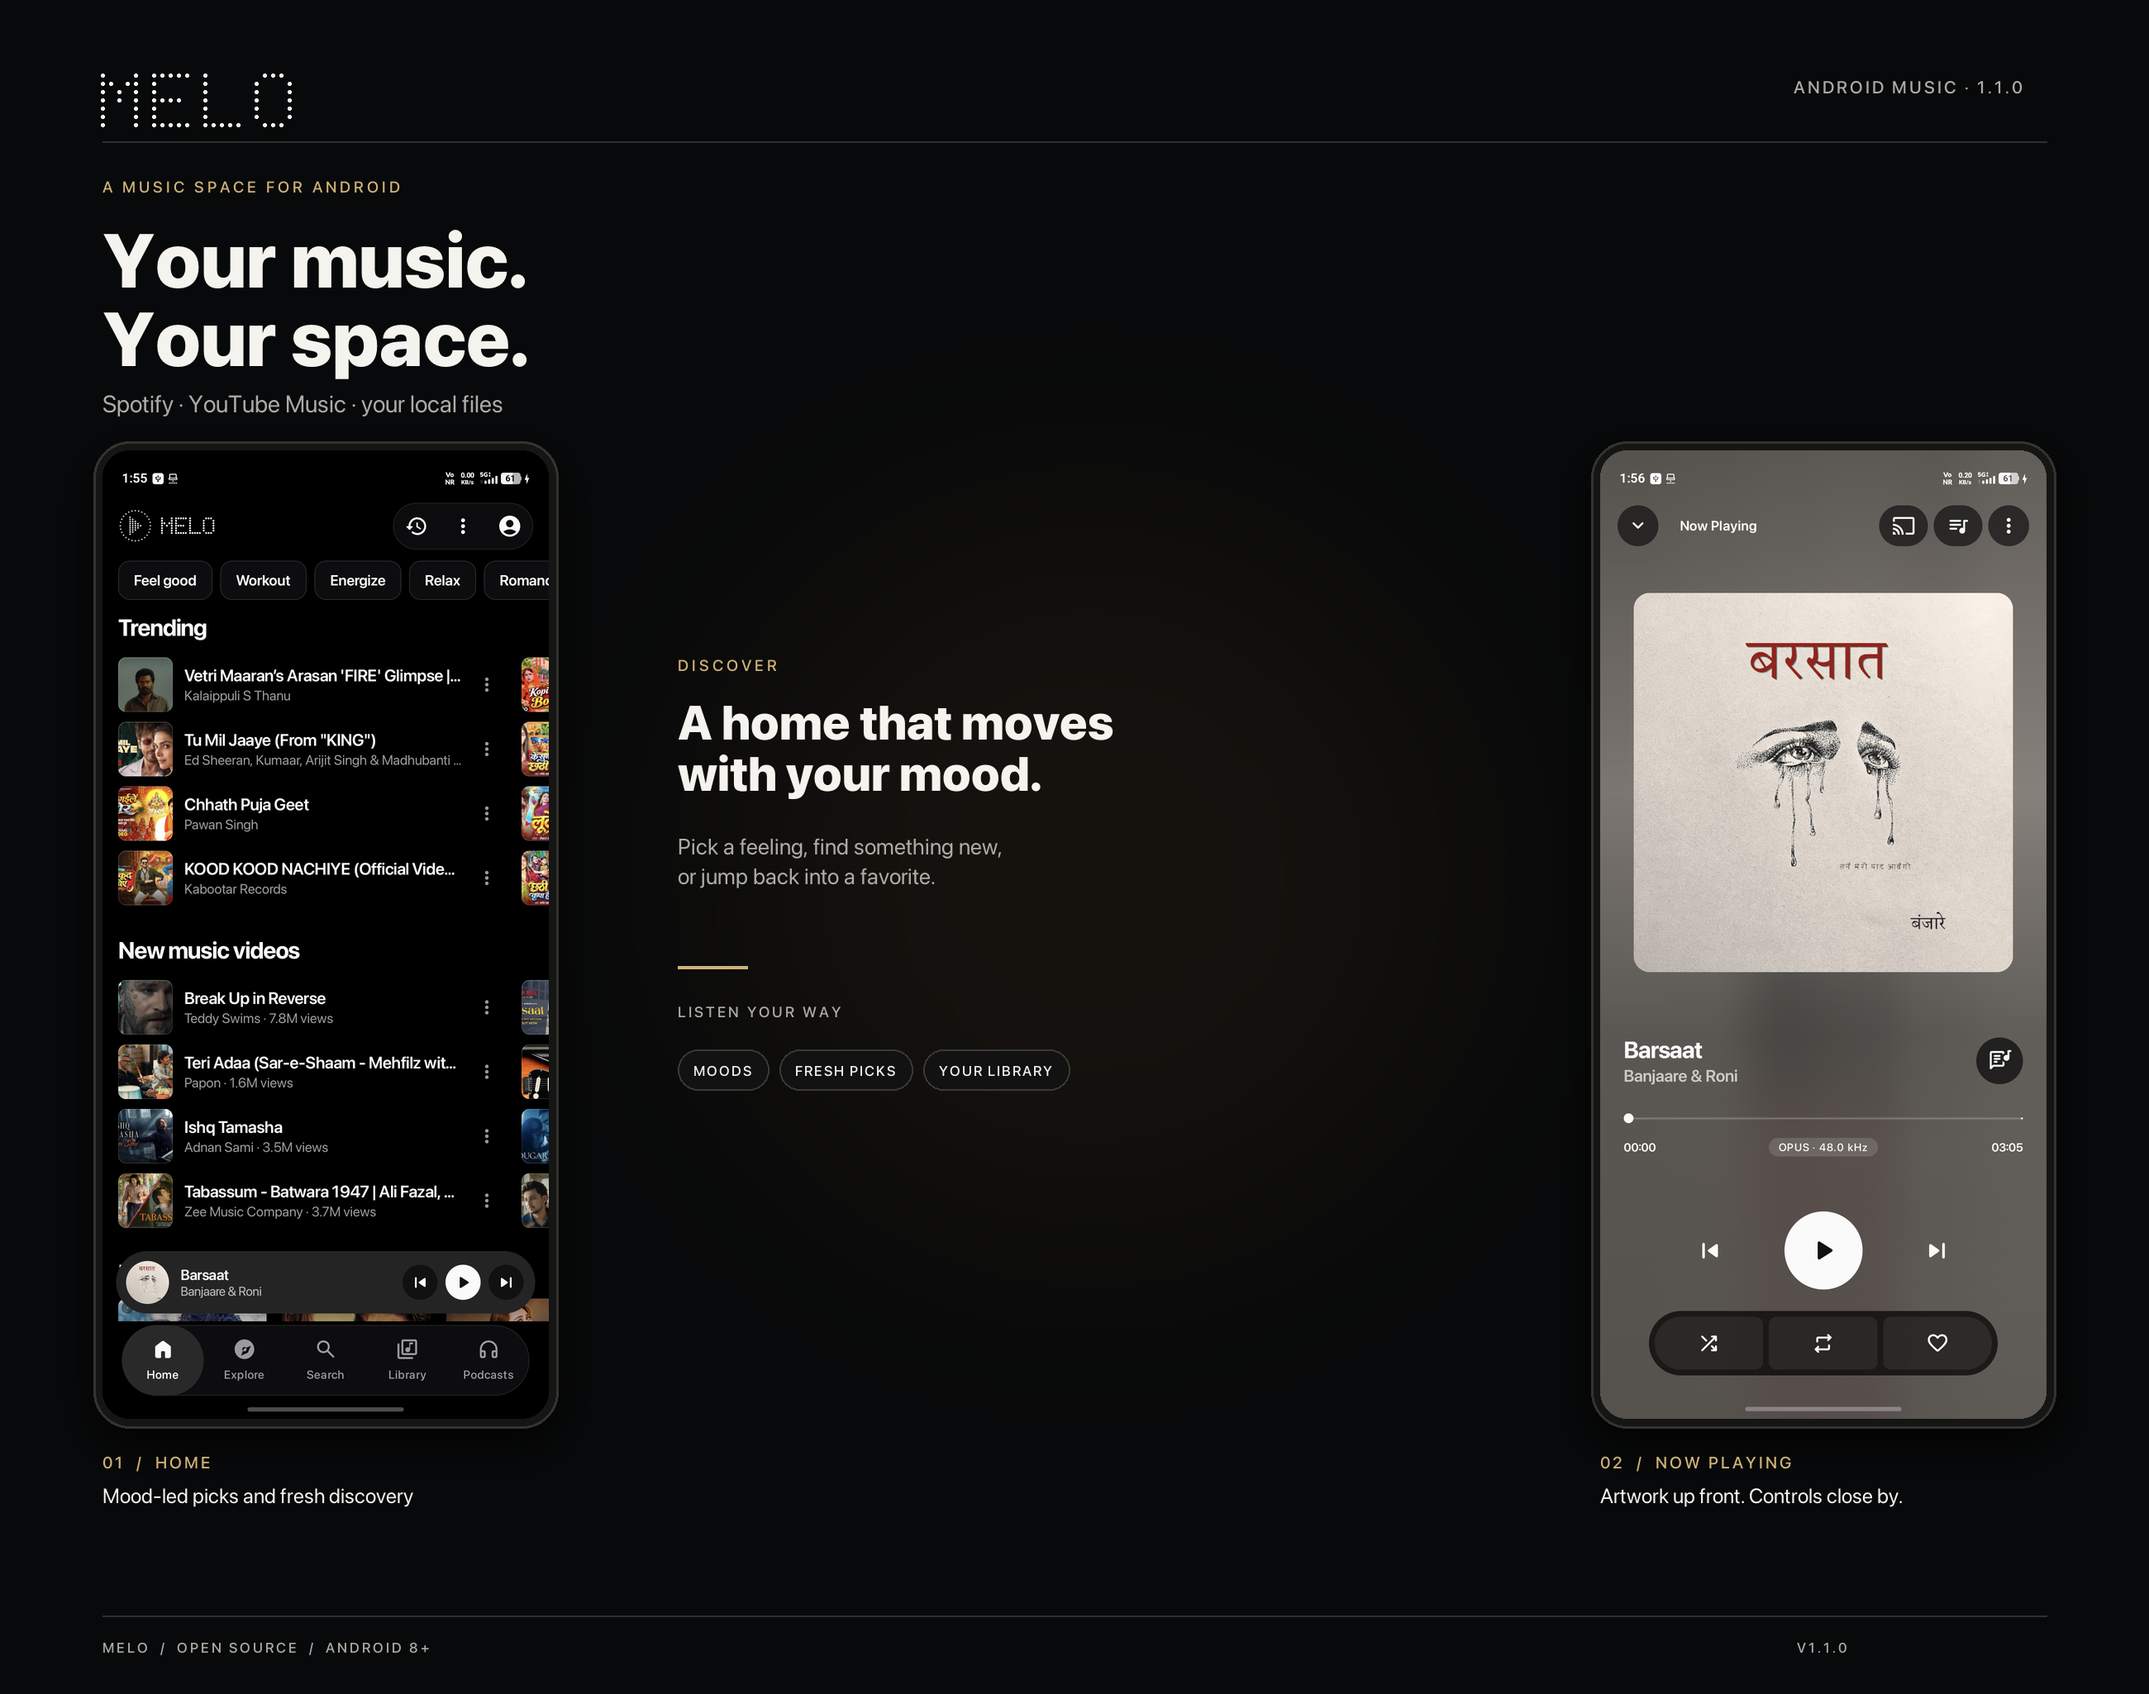
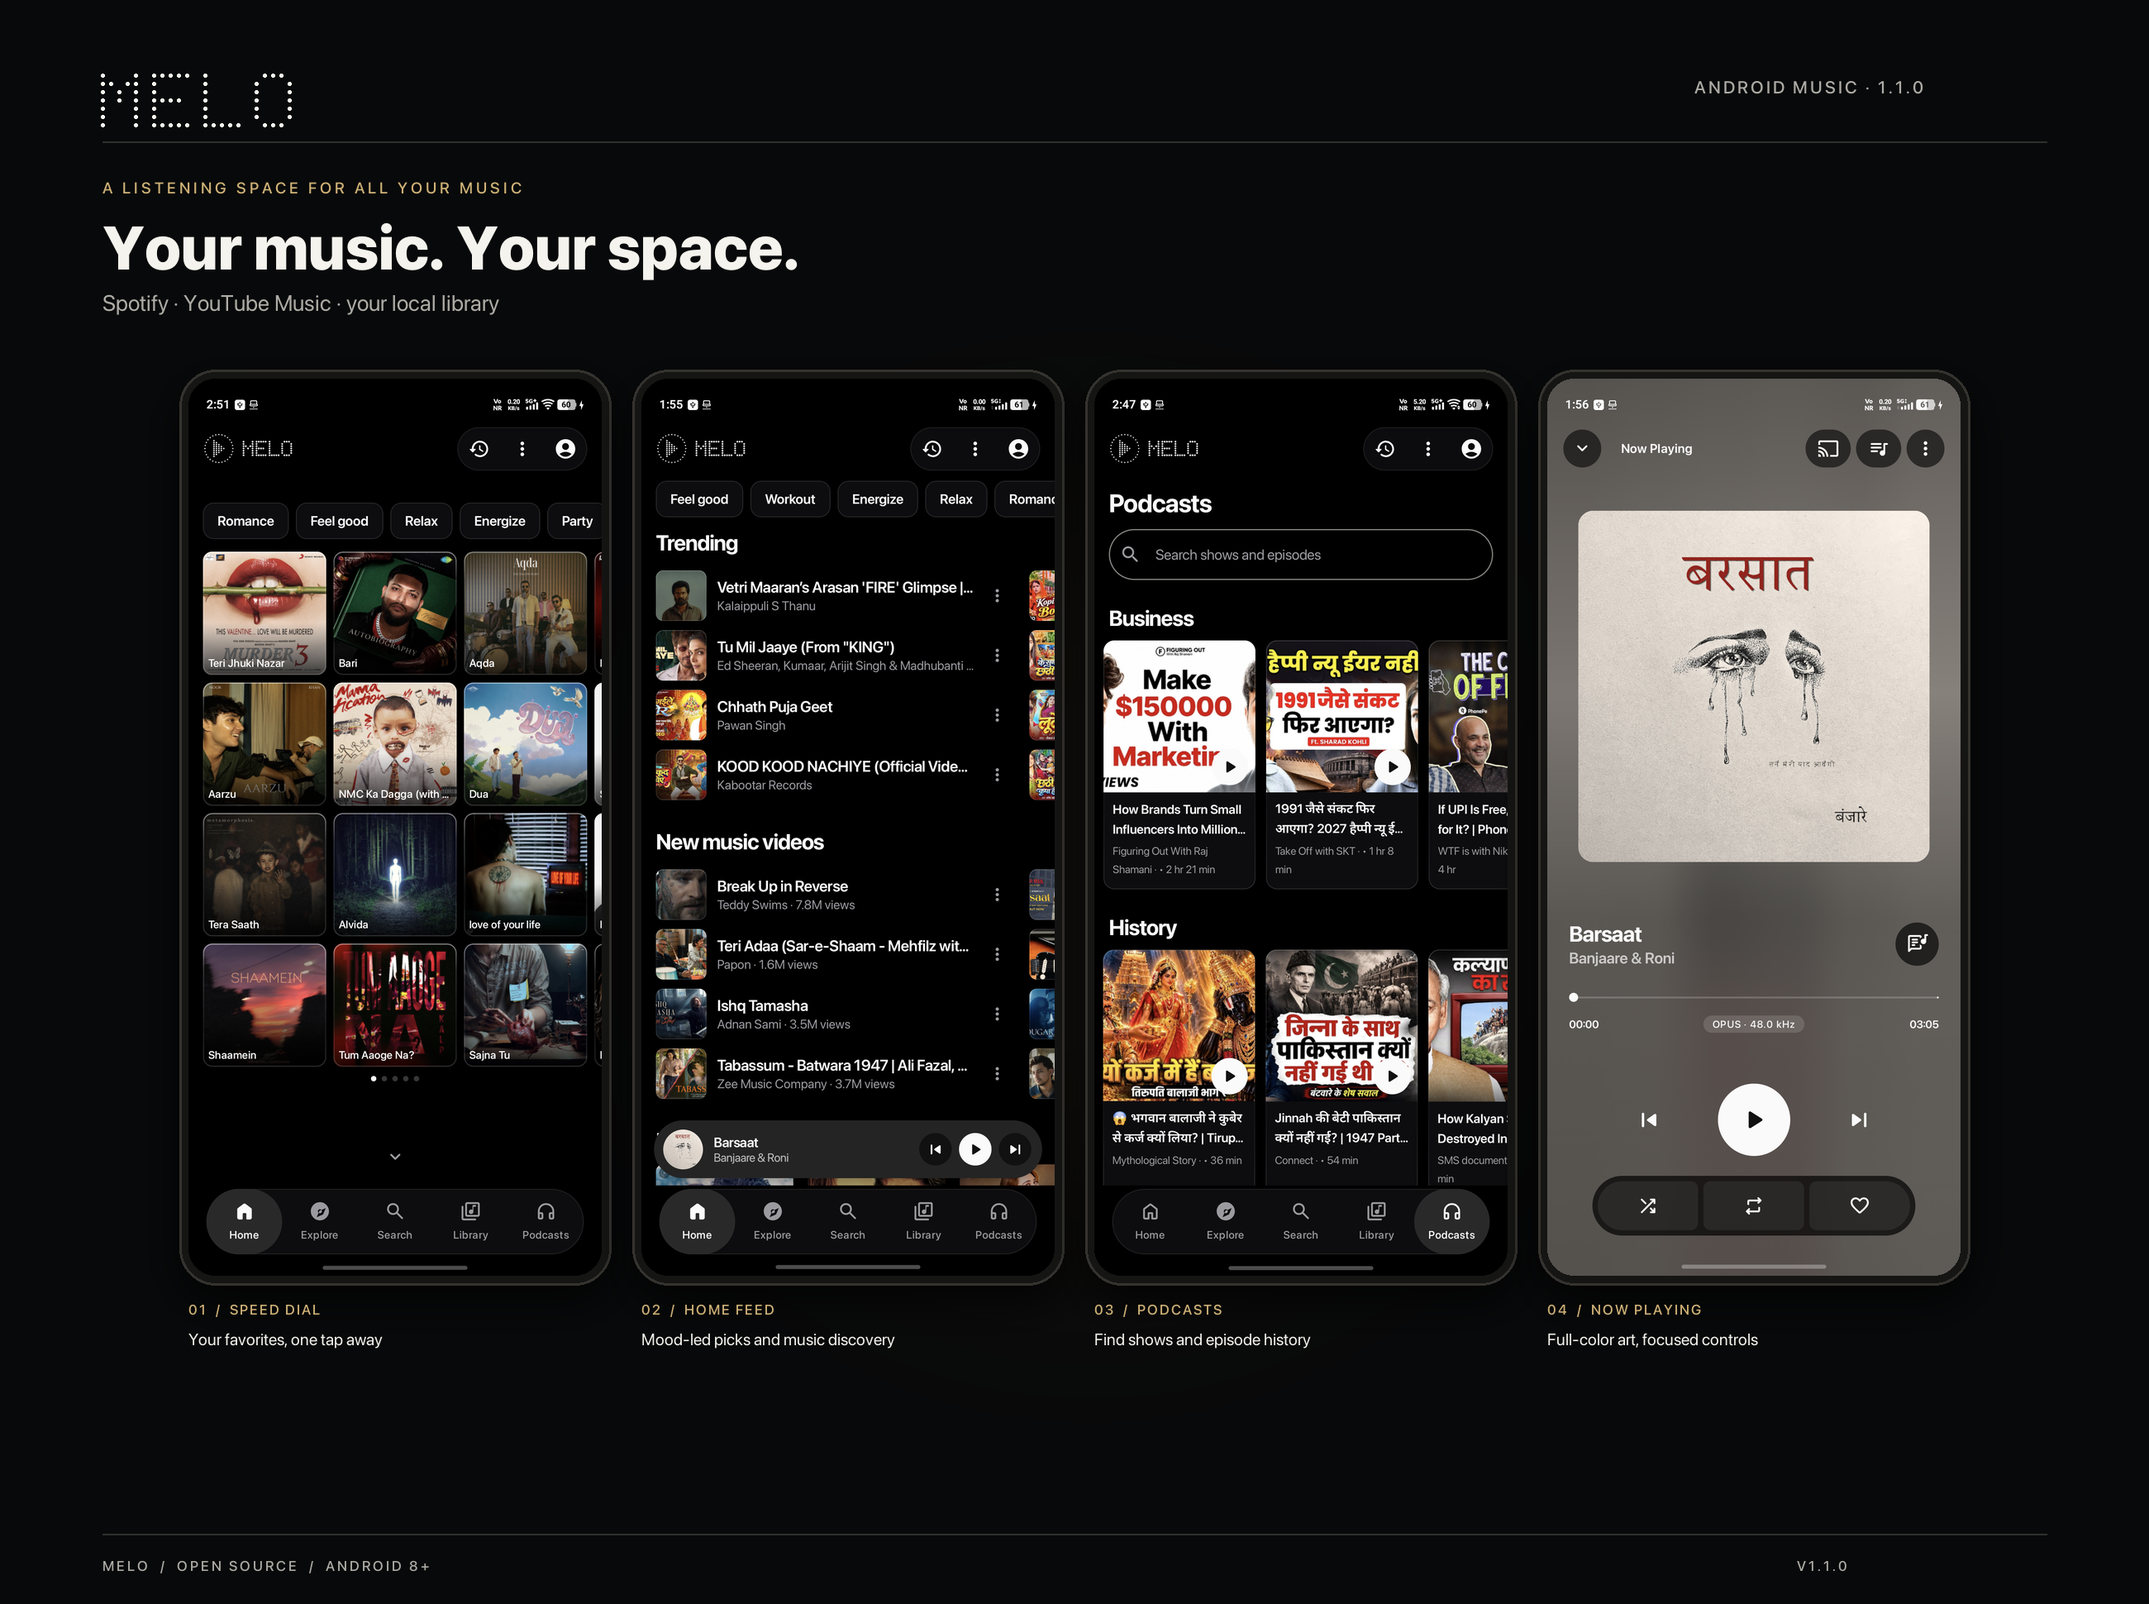
docs: update product showcase

diff --git a/scripts/generate-readme-showcase.py b/scripts/generate-readme-showcase.py
@@ -7,7 +7,7 @@ ROOT = Path(__file__).resolve().parents[1]
 ASSETS = ROOT / "docs" / "assets" / "img" / "readme"
 OUTPUT = ASSETS / "melo-product-showcase.png"
 
-WIDTH, HEIGHT = 2600, 2050
+WIDTH, HEIGHT = 2600, 1940
 BACKGROUND = (8, 9, 10)
 IVORY = (245, 243, 237)
 MUTED = (174, 172, 166)
@@ -76,7 +76,9 @@ def paste_phone(canvas: Image.Image, source: Path, x: int, y: int,
 
 def main() -> None:
     sources = {
+        "speed_dial": ASSETS / "screens" / "speed-dial.png",
         "home": ASSETS / "screens" / "home-feed.png",
+        "podcasts": ASSETS / "screens" / "podcasts.png",
         "player": ASSETS / "screens" / "now-playing.png",
     }
     for path in sources.values():
@@ -91,52 +93,37 @@ def main() -> None:
 
     draw = ImageDraw.Draw(canvas)
     draw_wordmark(draw, 124, 91)
-    tracked_text(draw, (2170, 93), "ANDROID MUSIC · 1.1.0", font(FONT_MEDIUM, 21), MUTED, 3)
+    tracked_text(draw, (2050, 93), "ANDROID MUSIC · 1.1.0", font(FONT_MEDIUM, 21), MUTED, 3)
     draw.line((124, 171, WIDTH - 124, 171), fill=(47, 47, 45), width=2)
 
-    tracked_text(draw, (124, 214), "A MUSIC SPACE FOR ANDROID", font(FONT_MEDIUM, 19), GOLD, 4)
-    headline = font(FONT_HEAVY, 92)
-    draw.text((124, 260), "Your music.", font=headline, fill=IVORY)
-    draw.text((124, 355), "Your space.", font=headline, fill=IVORY)
-    draw.text((124, 471), "Spotify · YouTube Music · your local files", font=font(FONT_REGULAR, 29), fill=MUTED)
+    tracked_text(draw, (124, 215), "A LISTENING SPACE FOR ALL YOUR MUSIC", font(FONT_MEDIUM, 19), GOLD, 4)
+    draw.text((124, 255), "Your music. Your space.", font=font(FONT_HEAVY, 74), fill=IVORY)
+    draw.text((124, 350), "Spotify · YouTube Music · your local library",
+              font=font(FONT_REGULAR, 27), fill=MUTED)
 
-    screen_width = 540
-    with Image.open(sources["home"]) as home_capture:
-        screen_height = round(screen_width * home_capture.height / home_capture.width)
-    screen_y = 545
-    left_x, right_x = 124, WIDTH - 124 - screen_width
-    paste_phone(canvas, sources["home"], left_x, screen_y, screen_width, screen_height)
-    paste_phone(canvas, sources["player"], right_x, screen_y, screen_width, screen_height)
+    screen_width = 500
+    screen_heights = {}
+    for name, source in sources.items():
+        with Image.open(source) as capture:
+            screen_heights[name] = round(screen_width * capture.height / capture.width)
+    screen_y = 458
+    gap = 48
+    row_width = screen_width * len(sources) + gap * (len(sources) - 1)
+    start_x = (WIDTH - row_width) // 2
+    captions = (
+        ("SPEED DIAL", "Your favorites, one tap away"),
+        ("HOME FEED", "Mood-led picks and music discovery"),
+        ("PODCASTS", "Find shows and episode history"),
+        ("NOW PLAYING", "Full-color art, focused controls"),
+    )
+    for index, (name, (title, subtitle)) in enumerate(zip(sources, captions), start=1):
+        x = start_x + (index - 1) * (screen_width + gap)
+        paste_phone(canvas, sources[name], x, screen_y, screen_width, screen_heights[name])
+        caption_y = screen_y + screen_heights[name] + 30
+        tracked_text(draw, (x, caption_y), f"0{index}  /  {title}", font(FONT_MEDIUM, 17), GOLD, 2)
+        draw.text((x, caption_y + 34), subtitle, font=font(FONT_REGULAR, 20), fill=IVORY)
 
-    center_left, center_right = 820, 1830
-    center_width = center_right - center_left
-    tracked_text(draw, (center_left, 793), "DISCOVER", font(FONT_MEDIUM, 19), GOLD, 4)
-    draw.text((center_left, 839), "A home that moves\nwith your mood.", font=font(FONT_HEAVY, 58),
-              fill=IVORY, spacing=6)
-    draw.multiline_text((center_left, 1008),
-                        "Pick a feeling, find something new,\nor jump back into a favorite.",
-                        font=font(FONT_REGULAR, 27), fill=MUTED, spacing=10)
-    draw.line((center_left, 1170, center_left + 84, 1170), fill=GOLD, width=4)
-    tracked_text(draw, (center_left, 1213), "LISTEN YOUR WAY", font(FONT_MEDIUM, 18), MUTED, 3)
-
-    tags = ("MOODS", "FRESH PICKS", "YOUR LIBRARY")
-    tag_font = font(FONT_MEDIUM, 17)
-    cursor = center_left
-    tag_y = 1270
-    for label in tags:
-        text_width = int(sum(draw.textlength(char, font=tag_font) + 2 for char in label) + 38)
-        draw.rounded_rectangle((cursor, tag_y, cursor + text_width, tag_y + 49), radius=24,
-                               fill=(18, 18, 18), outline=(59, 57, 52), width=2)
-        tracked_text(draw, (cursor + 19, tag_y + 15), label, tag_font, IVORY, 2)
-        cursor += text_width + 13
-
-    caption_y = screen_y + screen_height + 40
-    tracked_text(draw, (left_x, caption_y), "01  /  HOME", font(FONT_MEDIUM, 20), GOLD, 3)
-    draw.text((left_x, caption_y + 38), "Mood-led picks and fresh discovery", font=font(FONT_REGULAR, 25), fill=IVORY)
-    tracked_text(draw, (right_x, caption_y), "02  /  NOW PLAYING", font(FONT_MEDIUM, 20), GOLD, 3)
-    draw.text((right_x, caption_y + 38), "Artwork up front. Controls close by.", font=font(FONT_REGULAR, 25), fill=IVORY)
-
-    footer_y = HEIGHT - 67
+    footer_y = HEIGHT - 57
     draw.line((124, footer_y - 28, WIDTH - 124, footer_y - 28), fill=(47, 47, 45), width=2)
     tracked_text(draw, (124, footer_y), "MELO  /  OPEN SOURCE  /  ANDROID 8+", font(FONT_MEDIUM, 17), MUTED, 3)
     tracked_text(draw, (2174, footer_y), "V1.1.0", font(FONT_MEDIUM, 17), MUTED, 3)

diff --git a/README.md b/README.md
@@ -25,14 +25,18 @@ The app ID is **in.melo**. Melo is independent of Spotify, YouTube, and Google.
 ## Take a look
 
 <p align="center">
-  <img src="docs/assets/img/readme/melo-product-showcase.png" alt="Melo Home discovery feed and Now Playing screen" width="100%" />
+  <img src="docs/assets/img/readme/melo-product-showcase.png" alt="Melo Speed Dial, Home feed, Podcasts, and Now Playing screens" width="100%" />
 </p>
 
 <details>
   <summary>View the full-size screenshots</summary>
 
   <p align="center">
+    <img src="docs/assets/img/readme/screens/speed-dial.png" alt="Melo Speed Dial with mood controls and favorite music" width="49%" />
     <img src="docs/assets/img/readme/screens/home-feed.png" alt="Melo Home with mood controls and music discovery shelves" width="49%" />
+  </p>
+  <p align="center">
+    <img src="docs/assets/img/readme/screens/podcasts.png" alt="Melo Podcasts with show search, recommendations, and listening history" width="49%" />
     <img src="docs/assets/img/readme/screens/now-playing.png" alt="Melo Now Playing with album artwork and playback controls" width="49%" />
   </p>
 </details>
